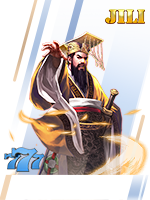
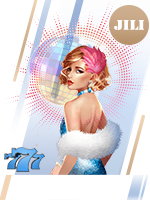
feat-( all site ) - add jili to slot games

diff --git a/apps/nova88v2/src/datas/productList.js b/apps/nova88v2/src/datas/productList.js
@@ -33,6 +33,7 @@ import casino_SG from "../styles/img/sg.png";
 import casino_PG from "../styles/img/pg.png";
 import casino_OW from "../styles/img/ow.png";
 import casino_PT from "../styles/img/pt.png";
+import casino_Jili from "../styles/img/ji.png";
 // import casino_KISS from "../styles/img/kiss.png";
 
 import fishing_CQ9_AB3 from "../styles/img/pd.png";
@@ -85,7 +86,8 @@ export const eventTime = {
 	new_indo_wap: { endDate: "2021/07/08 11:00:00" },
 	euro: {
 		endDate: "2021/07/13 12:00:00"
-	}
+	},
+	jili: { endDate: "2021/07/18 11:00:00" }
 };
 
 export const euro_event_time = {
@@ -269,6 +271,19 @@ const gameList = ({ langId, currencyName }) => {
 							path: path.casino.root
 						},
 						{
+							...defGameInfo.Casino_Jili,
+							parameter: defGameInfo.Casino_Jili,
+							spanText: "Jili",
+							path: path.casino.root,
+							img: casino_Jili,
+							eventIcon: [
+								{
+									icon: defIconType.new,
+									inPeriod: isEventPeriod(eventTime.jili)
+								}
+							]
+						},
+						{
 							...defGameInfo.Casino_PG,
 							parameter: defGameInfo.Casino_PG,
 							spanText: "PG",
@@ -336,6 +351,14 @@ const gameList = ({ langId, currencyName }) => {
 							spanText: "OW",
 							img: casino_OW
 						}
+						// {
+						// ...defGameInfo.Casino_918Kiss,
+						// parameter:defGameInfo.Casino_918Kiss,
+						// spanText: "918Kiss",
+						//     img: casino_KISS,
+						//     path: path.kiss918.root,
+						//     needLogin: true
+						// },
 					]
 				},
 				{
@@ -613,6 +636,19 @@ const gameList = ({ langId, currencyName }) => {
 							path: path.casino.root
 						},
 						{
+							...defGameInfo.Casino_Jili,
+							parameter: defGameInfo.Casino_Jili,
+							spanText: "Jili",
+							img: casino_Jili,
+							path: path.casino.root,
+							eventIcon: [
+								{
+									icon: defIconType.new,
+									inPeriod: isEventPeriod(eventTime.jili)
+								}
+							]
+						},
+						{
 							...defGameInfo.Casino_SG,
 							parameter: defGameInfo.Casino_SG,
 							spanText: "SG",
@@ -687,9 +723,9 @@ const gameList = ({ langId, currencyName }) => {
 						// ...defGameInfo.Casino_918Kiss,
 						// parameter:defGameInfo.Casino_918Kiss,
 						// spanText: "918Kiss",
-						// 	img: casino_KISS,
-						// 	path: path.kiss918.root,
-						// 	needLogin: true
+						//     img: casino_KISS,
+						//     path: path.kiss918.root,
+						//     needLogin: true
 						// },
 					]
 				},
@@ -967,6 +1003,19 @@ const gameList = ({ langId, currencyName }) => {
 							path: path.casino.root
 						},
 						{
+							...defGameInfo.Casino_Jili,
+							parameter: defGameInfo.Casino_Jili,
+							spanText: "Jili",
+							img: casino_Jili,
+							path: path.casino.root,
+							eventIcon: [
+								{
+									icon: defIconType.new,
+									inPeriod: isEventPeriod(eventTime.jili)
+								}
+							]
+						},
+						{
 							...defGameInfo.Casino_PP,
 							parameter: defGameInfo.Casino_PP,
 							spanText: "PP",
@@ -1028,20 +1077,20 @@ const gameList = ({ langId, currencyName }) => {
 							img: casino_GPI,
 							path: path.casino.root
 						},
-						// {
-						// ...defGameInfo.Casino_918Kiss,
-						// parameter:defGameInfo.Casino_918Kiss,
-						// spanText: "918Kiss",
-						// 	img: casino_KISS,
-						// 	path: path.kiss918.root,
-						// 	needLogin: true
-						// },
 						{
 							...defGameInfo.Casino_OW,
 							parameter: defGameInfo.Casino_OW,
 							spanText: "OW",
 							img: casino_OW
 						}
+						// {
+						// ...defGameInfo.Casino_918Kiss,
+						// parameter:defGameInfo.Casino_918Kiss,
+						// spanText: "918Kiss",
+						//     img: casino_KISS,
+						//     path: path.kiss918.root,
+						//     needLogin: true
+						// },
 					]
 				},
 				{
@@ -1305,6 +1354,19 @@ const gameList = ({ langId, currencyName }) => {
 							path: path.casino.root
 						},
 						{
+							...defGameInfo.Casino_Jili,
+							parameter: defGameInfo.Casino_Jili,
+							spanText: "Jili",
+							img: casino_Jili,
+							path: path.casino.root,
+							eventIcon: [
+								{
+									icon: defIconType.new,
+									inPeriod: isEventPeriod(eventTime.jili)
+								}
+							]
+						},
+						{
 							...defGameInfo.Casino_PG,
 							parameter: defGameInfo.Casino_PG,
 							spanText: "PG",
@@ -1372,6 +1434,14 @@ const gameList = ({ langId, currencyName }) => {
 							spanText: "OW",
 							img: casino_OW
 						}
+						// {
+						// ...defGameInfo.Casino_918Kiss,
+						// parameter:defGameInfo.Casino_918Kiss,
+						// spanText: "918Kiss",
+						//     img: casino_KISS,
+						//     path: path.kiss918.root,
+						//     needLogin: true
+						// },
 					]
 				},
 				{
@@ -1655,6 +1725,19 @@ const gameList = ({ langId, currencyName }) => {
 							]
 						},
 						{
+							...defGameInfo.Casino_Jili,
+							parameter: defGameInfo.Casino_Jili,
+							spanText: "Jili",
+							img: casino_Jili,
+							path: path.casino.root,
+							eventIcon: [
+								{
+									icon: defIconType.new,
+									inPeriod: isEventPeriod(eventTime.jili)
+								}
+							]
+						},
+						{
 							...defGameInfo.Casino_PP,
 							parameter: defGameInfo.Casino_PP,
 							spanText: "PP",
@@ -1710,20 +1793,20 @@ const gameList = ({ langId, currencyName }) => {
 							img: casino_PG,
 							path: path.casino.root
 						},
-						// {
-						// ...defGameInfo.Casino_918Kiss,
-						// parameter:defGameInfo.Casino_918Kiss,
-						// spanText: "918Kiss",
-						// 	img: casino_KISS,
-						// 	path: path.kiss918.root,
-						// 	needLogin: true
-						// },
 						{
 							...defGameInfo.Casino_OW,
 							parameter: defGameInfo.Casino_OW,
 							spanText: "OW",
 							img: casino_OW
 						}
+						// {
+						// ...defGameInfo.Casino_918Kiss,
+						// parameter:defGameInfo.Casino_918Kiss,
+						// spanText: "918Kiss",
+						//     img: casino_KISS,
+						//     path: path.kiss918.root,
+						//     needLogin: true
+						// },
 					]
 				},
 				{
@@ -1903,7 +1986,8 @@ export const defGameInfo = {
 	},
 	kingMaker: { tpId: 11 },
 	amb: { tpId: 30 },
-	nineW: { tpId: 31 }
+	nineW: { tpId: 31 },
+	Casino_Jili: { tpId: 32 }
 };
 
 export const defCol = {

diff --git a/apps/goal123/src/datas/productList.js b/apps/goal123/src/datas/productList.js
@@ -37,6 +37,7 @@ import Casino_PP from "../styles/img/hotgame-m/slots/slot-pp.png";
 import Casino_PG from "../styles/img/hotgame-m/slots/slot-pg.png";
 import Casino_OW from "../styles/img/hotgame-m/slots/slots-ow.png";
 import Casino_PT from "../styles/img/hotgame-m/slots/slot-pt.png";
+import Casino_Jili from "../styles/img/hotgame-m/slots/slot-jili.png";
 
 import LIVEcasino_N2Live from "../styles/img/hotgame-m/livecasino/livecasino-n2live.png";
 import LIVEcasino_WM from "../styles/img/hotgame-m/livecasino/livecasino-wm.png";
@@ -99,7 +100,8 @@ export const defGameInfo = {
 	Casino_JOKER: { tpId: 9 },
 	Indo4d: { gameId: 223, tpId: 1 },
 	NumberGame: { gameId: 161, tpId: 1 },
-	kingMaker: { tpId: 11 }
+	kingMaker: { tpId: 11 },
+	Casino_Jili: { tpId: 32 }
 };
 
 const defIconType = {
@@ -112,7 +114,8 @@ export const eventTime = {
 	liveCasino_pt: { endDate: "2021/07/08 11:00:00" },
 	new_BTI: { endDate: "2021/06/28 11:00:00" },
 	new_Km: { endDate: "2021/07/08 11:00:00" },
-	euro: { endDate: "2021/07/13 12:00:00" }
+	euro: { endDate: "2021/07/13 12:00:00" },
+	jili: { endDate: "2021/07/18 11:00:00" }
 };
 
 export const defCol = {
@@ -338,6 +341,19 @@ const gameList = [
 					{
 						icon: defIconType.new,
 						inPeriod: isEventPeriod(eventTime.casino_pt)
+					}
+				]
+			},
+			{
+				...defGameInfo.Casino_Jili,
+				parameter: defGameInfo.Casino_Jili,
+				spanText: "Jili",
+				img: Casino_Jili,
+				path: path.casino.root,
+				eventIcon: [
+					{
+						icon: defIconType.new,
+						inPeriod: isEventPeriod(eventTime.jili)
 					}
 				]
 			},

diff --git a/apps/nova88v2/src/components/setting/gameProvider.js b/apps/nova88v2/src/components/setting/gameProvider.js
@@ -112,10 +112,12 @@ const defPlatfrom = [
 	{
 		...defGameInfo.amb,
 		imgName: "amb"
+	},
+	{
+		...defGameInfo.Casino_Jili,
+		imgName: "ji"
 	}
 ];
-//
-//
 
 const GameProvider = ({ userInfo, i18n }) => {
 	const [showingTpIds, setShowingTpIds] = useState([]);

diff --git a/apps/bwing/src/datas/productList.js b/apps/bwing/src/datas/productList.js
@@ -77,7 +77,8 @@ export const defGameInfo = {
 		tpId: 16,
 		gameId: "AT04"
 	},
-	kingMaker: { tpId: 11 }
+	kingMaker: { tpId: 11 },
+	Casino_Jili: { tpId: 32 }
 };
 
 const gameList = langId => [

diff --git a/apps/goal123/src/components/setting/defPlatform.js b/apps/goal123/src/components/setting/defPlatform.js
@@ -69,7 +69,11 @@ const defPlatfrom = [
 	},
 	{
 		...defGameInfo.kingMaker,
-		imgName: "kingmakera"
+		imgName: "kingmaker"
+	},
+	{
+		...defGameInfo.Casino_Jili,
+		imgName: "jilia"
 	}
 ];
 

diff --git a/apps/bwing/src/components/home/links.js b/apps/bwing/src/components/home/links.js
@@ -147,7 +147,8 @@ const defPlatform = [
 	"n2live",
 	"playtech",
 	"bti",
-	"kingmaker"
+	"kingmaker",
+	"jili"
 ];
 
 const Platforms = ({ i18n }) => {
